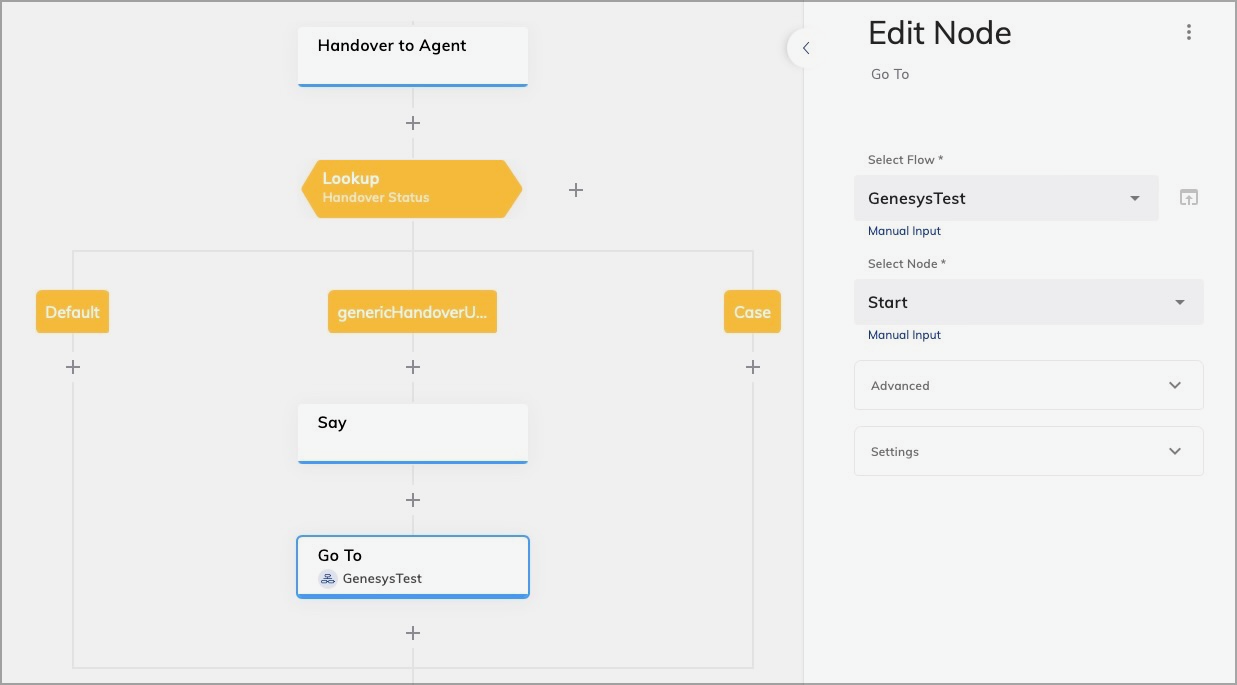
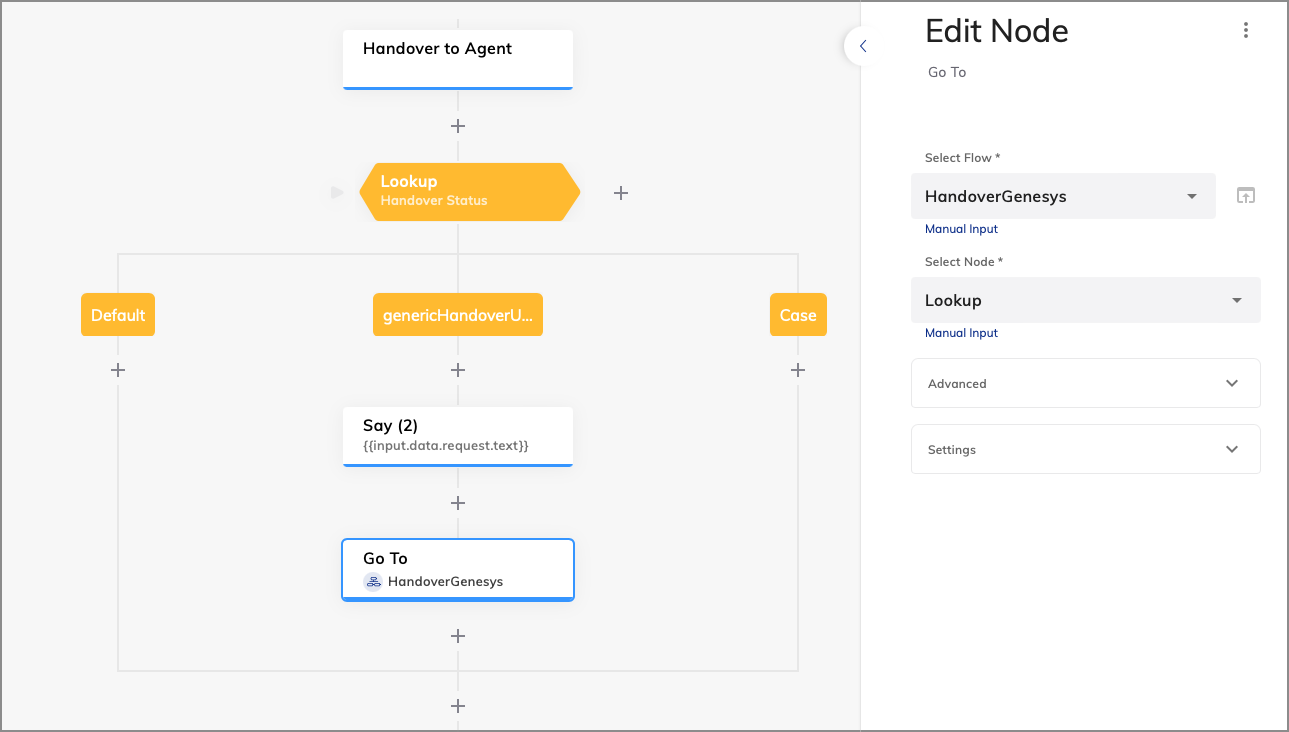
Genesys Bot Messages made changes and added some essential information

diff --git a/docs/ai/build/node-reference/logic/lookup.md b/docs/ai/build/node-reference/logic/lookup.md
@@ -96,6 +96,8 @@ By changing the lookup type to **Handover Status**,
 the Flow will select a case that matches the value of `input.handover.status`.
 The case values must manually be written for a type of lookup.
 
+You can now receive **Status** messages from Genesys Cloud using the **Handover Status**. To learn how to do that, go to [Genesys Status and Bot Messages](../../../escalate/handover-reference/genesys-cloud-open-messaging.md).
+
 <figure>
   <img class="image-center" src="../../../../../_assets/ai/build/node-reference/logic/lookup-handover-status.png" width="100%" />
   <figcaption>A Handover Status type Lookup Node with 4 cases</figcaption>
@@ -111,9 +113,6 @@ The table below shows handover statuses that you can select in the Case Node.
 | Events    | Conversations are triggered by specific occurrences significant to the conversation. These could be time-sensitive events, important updates, or prompts that guide the conversation's direction or provide additional context.                                                                                                                                                                                                                                                                                                                              | -                                                                                                                                                                                                                                                                     |
 | Active    | Conversations are actively managed by a human agent.                                                                                                                                                                                                                                                                                                                                                                                                                                                                                                         | -                                                                                                                                                                                                                                                                     |
 | Queue     | Conversations are on hold, awaiting agent assignment. The end user can receive a message if a Say Node is placed under the Case Node. The Say Node should contain the following text:<br/><br><code>Estimated time:  {{"{{input?.handover?.data?.estimatedWaitTime / 1000}}"}} seconds</code><br><code>Position: {{"{{input?.handover?.data?.position}}"}}</code><br> <br> Where `Estimated time` is the approximate duration in seconds that the user must wait for a response from a human agent, and `Position` is the conversation's order in the queue. | The status is applicable only to the [RingCentral Engage](../../../escalate/handover-reference/ring-central-engage.md) provider when the the [Get Queue Updates](../../../escalate/handover-reference/ring-central-engage.md#get-queue-updates) setting is activated. |
-
-!!! note "Genesys Cloud"
-    You can now receive **Status** messages from Genesys Cloud using the **Handover Status**. To learn how to do that, go to [Genesys Status / Bot Messages](../../../escalate/handover-reference/genesys-cloud-open-messaging.md).
 
 ### CognigyScript
 By changing the lookup type to **CognigyScript**, the Flow will select a case that matches the value of any variable that is entered in the "Operator" field, either by using a *token* or by writing the variable path in *CognigyScript*. This feature makes it possible to change the Flow path based on any variable in the `input`, `context` or `profile`. The case values must manually be written for this type of lookup.

diff --git a/docs/ai/escalate/handover-reference/genesys-cloud-open-messaging.md b/docs/ai/escalate/handover-reference/genesys-cloud-open-messaging.md
@@ -99,28 +99,6 @@ After creating your inbound message flow, you will see this flow in the architec
 
 To learn more about designing the flow, see [Configure Inbound Message Flow](https://help.mypurecloud.com/articles/inbound-message-flows/) settings.
 
-#### Genesys Status / Bot Messages
-
-Status or Bot Messages configured within Genesys will be sent to the Cognigy Flow. To have this option enabled, please contact our Support Team.
-
-To display those messages, follow these steps:
-
-1. Configure your handover flow as usual and set a **Lookup** node after the **Handover to Agent** node.
-2. For the status within the **Lookup** node choose **Handover Status**.
-3. For the child **case** node choose `genericHandoverUpdate`.
-4. Now add your **Say** node to this branch to display the messages to the customer. As the Status/Bot
-messages will be sent to your node as input, you can use Cognigy Script to display them. Add
-`{{ "{{ input.data.request.text }}" }}` to your say node.
-5. After the **Say** node add a **Go To** node to continue the flow at the beginning of the **Lookup** node, to
-display all incoming Status/Bot messages.
-
-<figure>
-  <img class="image-center" src="../../../_assets/ai/escalate/handover-reference/genesys/genesys-flow-sample.png" width="80%" />
-</figure>
-
-
-If you use **Copilot**, you need to configure the same within your **Copilot** flow. Ensure to set the structure *above*
-before the actual **Copilot** nodes.
 
 #### Set up Message Routing
 
@@ -198,6 +176,40 @@ In [Handover to Agent](../../build/node-reference/service/handover-to-agent.md) 
 
 To test connection, click **Open Demo Web Chat**.
 
+#### Genesys Status and Bot Messages
+
+Status and Bot Messages configured within Genesys can be sent to the Cognigy Flow and displayed at the Endpoint. To have this feature flag enabled, contact Cognigy Support.
+
+To display Genesys Status and Bot messages, follow these steps:
+
+1. In your chosen Handover Flow, set a **Lookup** node below the **Handover to Agent** node. Set **Lookup** node as your Entrypoint.
+2. For the **Type** field within the **Lookup** node, select **Handover Status**.
+3. For the child **Case** node, select `genericHandoverUpdate`.
+4. Add your **Say** node to this branch to display the messages to the end user. As the Status/Bot
+messages will be sent to your node as input, you can use **CognigyScript** to display them. Add
+`{{ "{{ input.data.request.text }}" }}` to your say node.
+5. In the Handover Settings of the **Say** node, choose **User Only** as the Handover Output Destination.
+
+<figure>
+  <img class="image-center" src="../../../_assets/ai/escalate/handover-reference/genesys/say-node-setup.png" width="50%" />
+</figure>
+
+6. To display *all* incoming Genesys Status or Bot messages, add a **Go To** node below the **Say** node.
+7. In Select Node, choose **Lookup** and in Advanced choose **Go To Node and Wait for Input** from Execution Mode.
+
+<figure>
+  <img class="image-center" src="../../../_assets/ai/escalate/handover-reference/genesys/genesys-goto-setup.png" width="50%" />
+</figure>
+
+Your Genesys flow should look like this:
+
+<figure>
+  <img class="image-center" src="../../../_assets/ai/escalate/handover-reference/genesys/genesys-flow-sample.png" width="80%" />
+</figure>
+
+
+If you use **AI Copilot**, you need to configure the Genesys Status and Bot Messages feature within your **AI Copilot** flow. Ensure to set the structure *above* the actual **AI Copilot** nodes.
+
 ## AI Copilot Workspace
 
 Within Genesys integration, you can use [AI Copilot Workspace](../../../ai-copilot/overview.md) as an assistant for your human agents.
@@ -265,4 +277,3 @@ To add the Script to the Inbound Message Flow, follow these steps:
 
 - [Genesys Cloud Guest Chat](genesys-cloud-guest-chat.md)
 
-[def]: ./../../_assets/ai/escalate/handover-reference/genesys/genesys-flow-sample.pn
